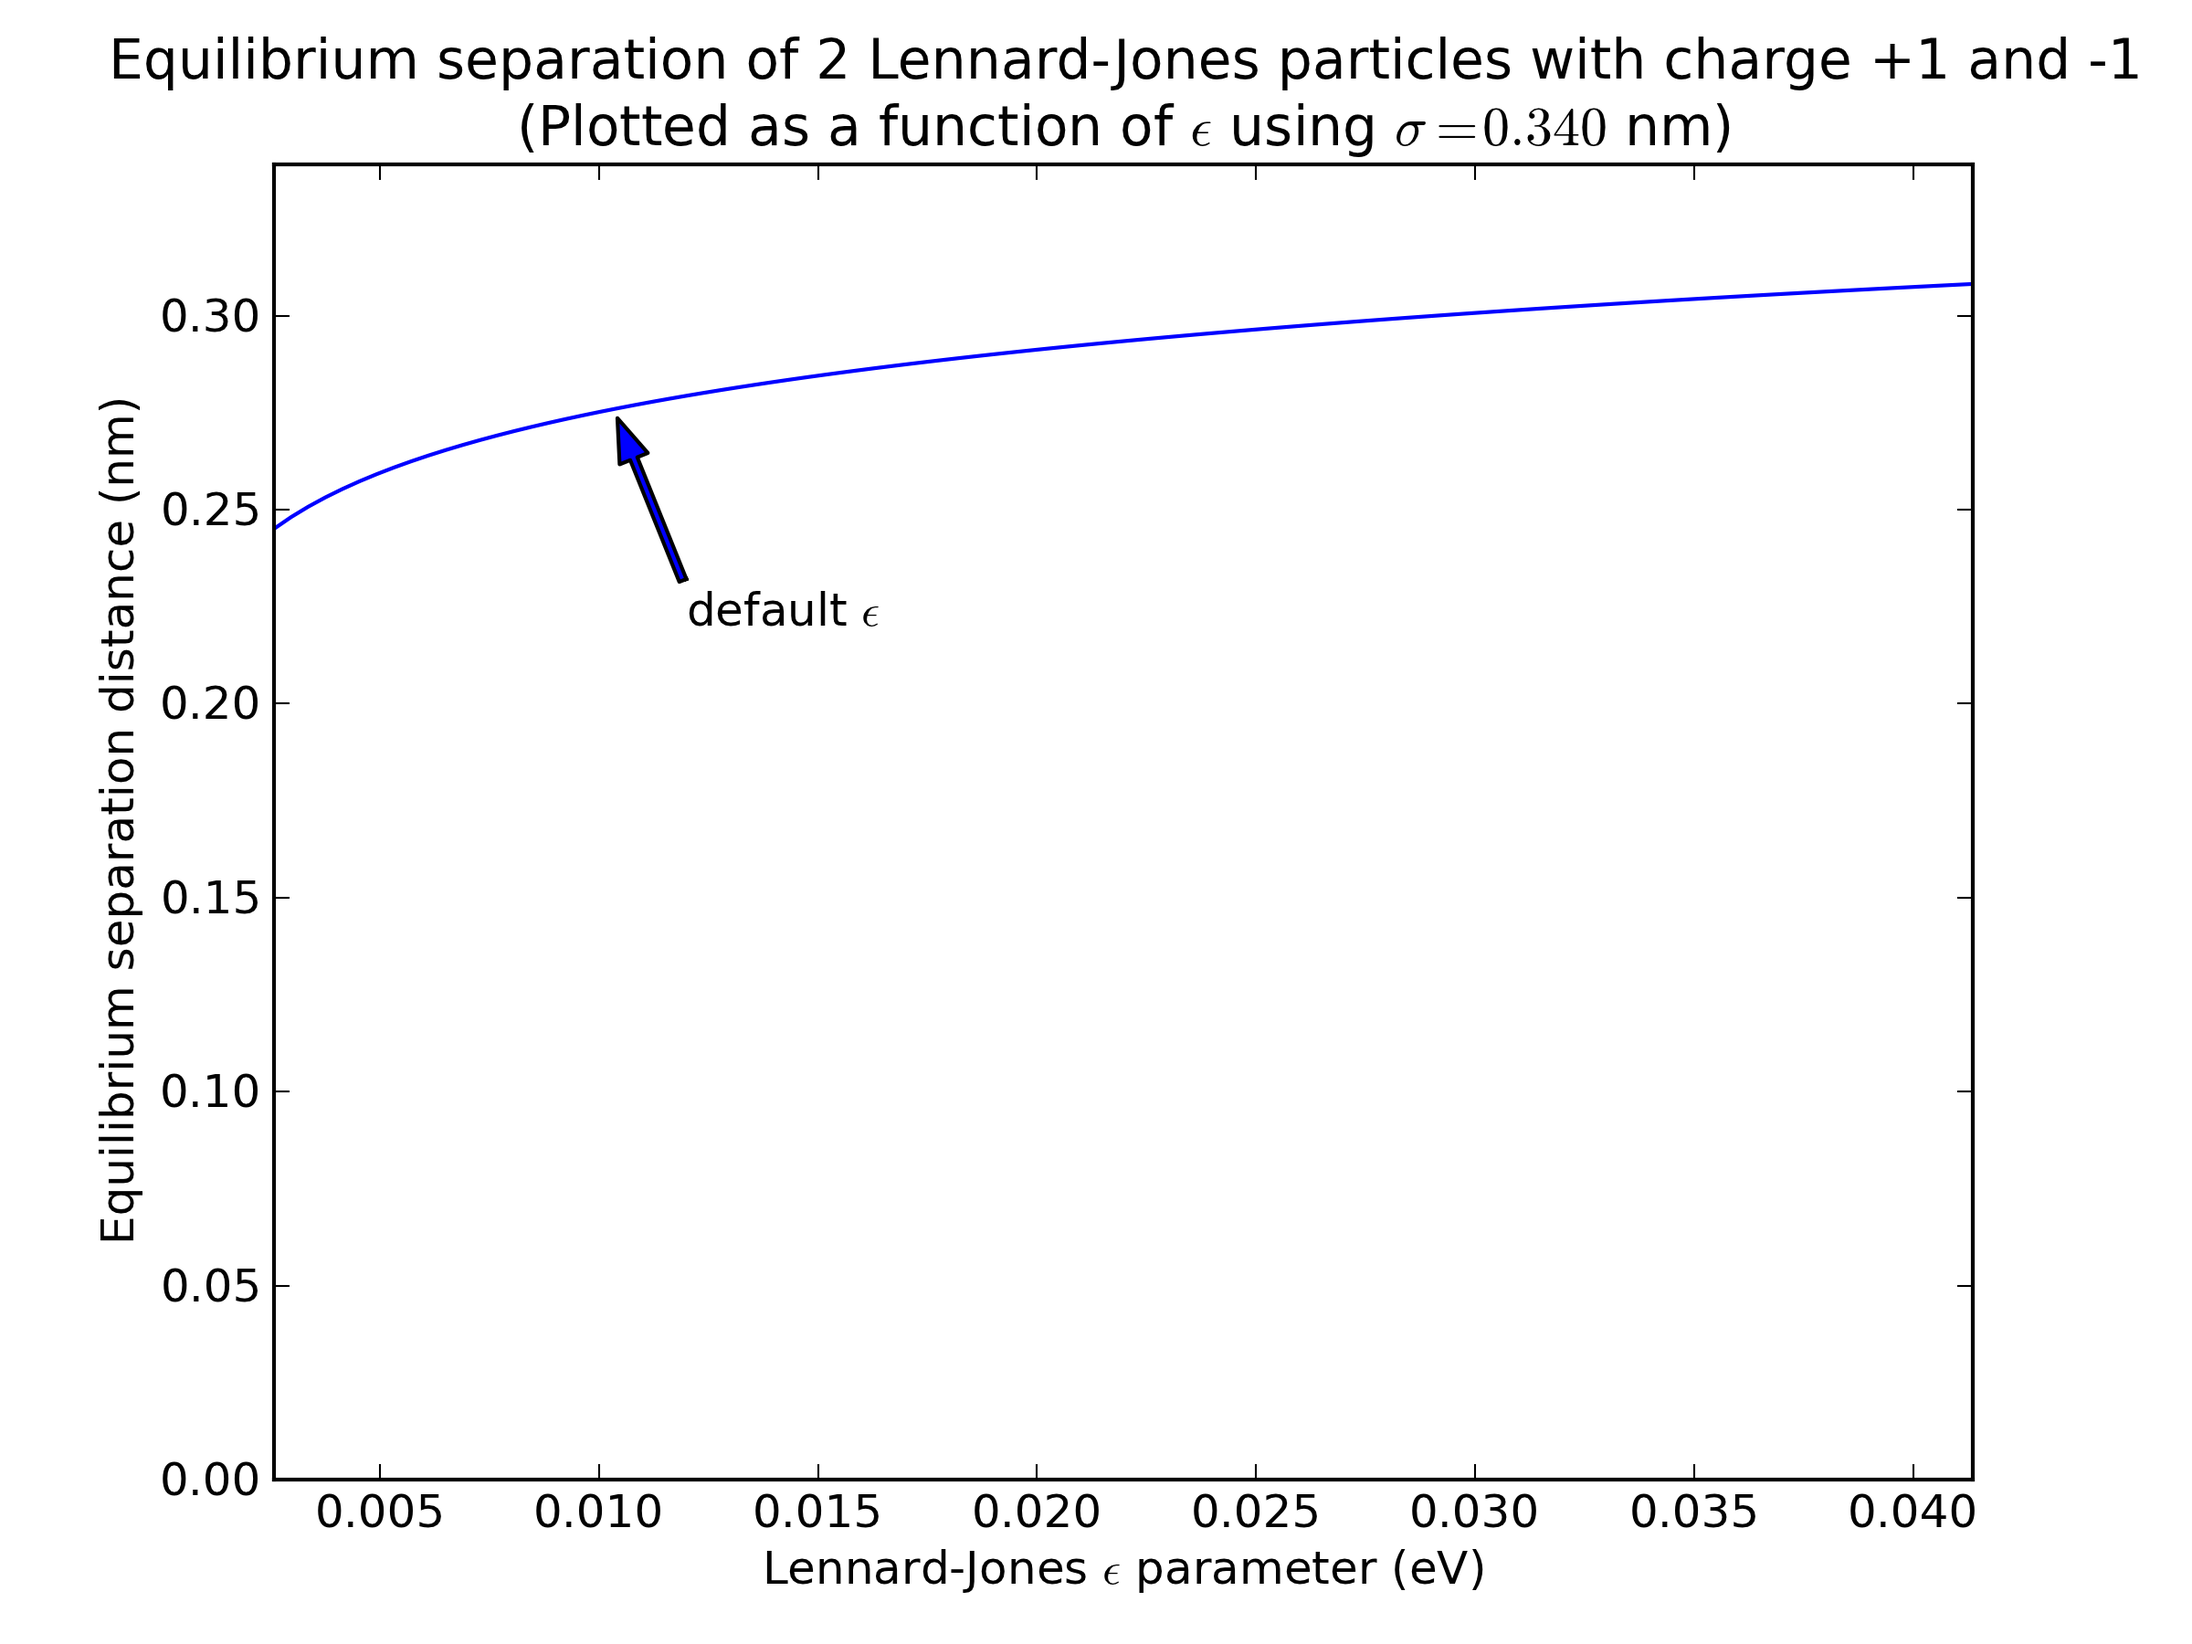
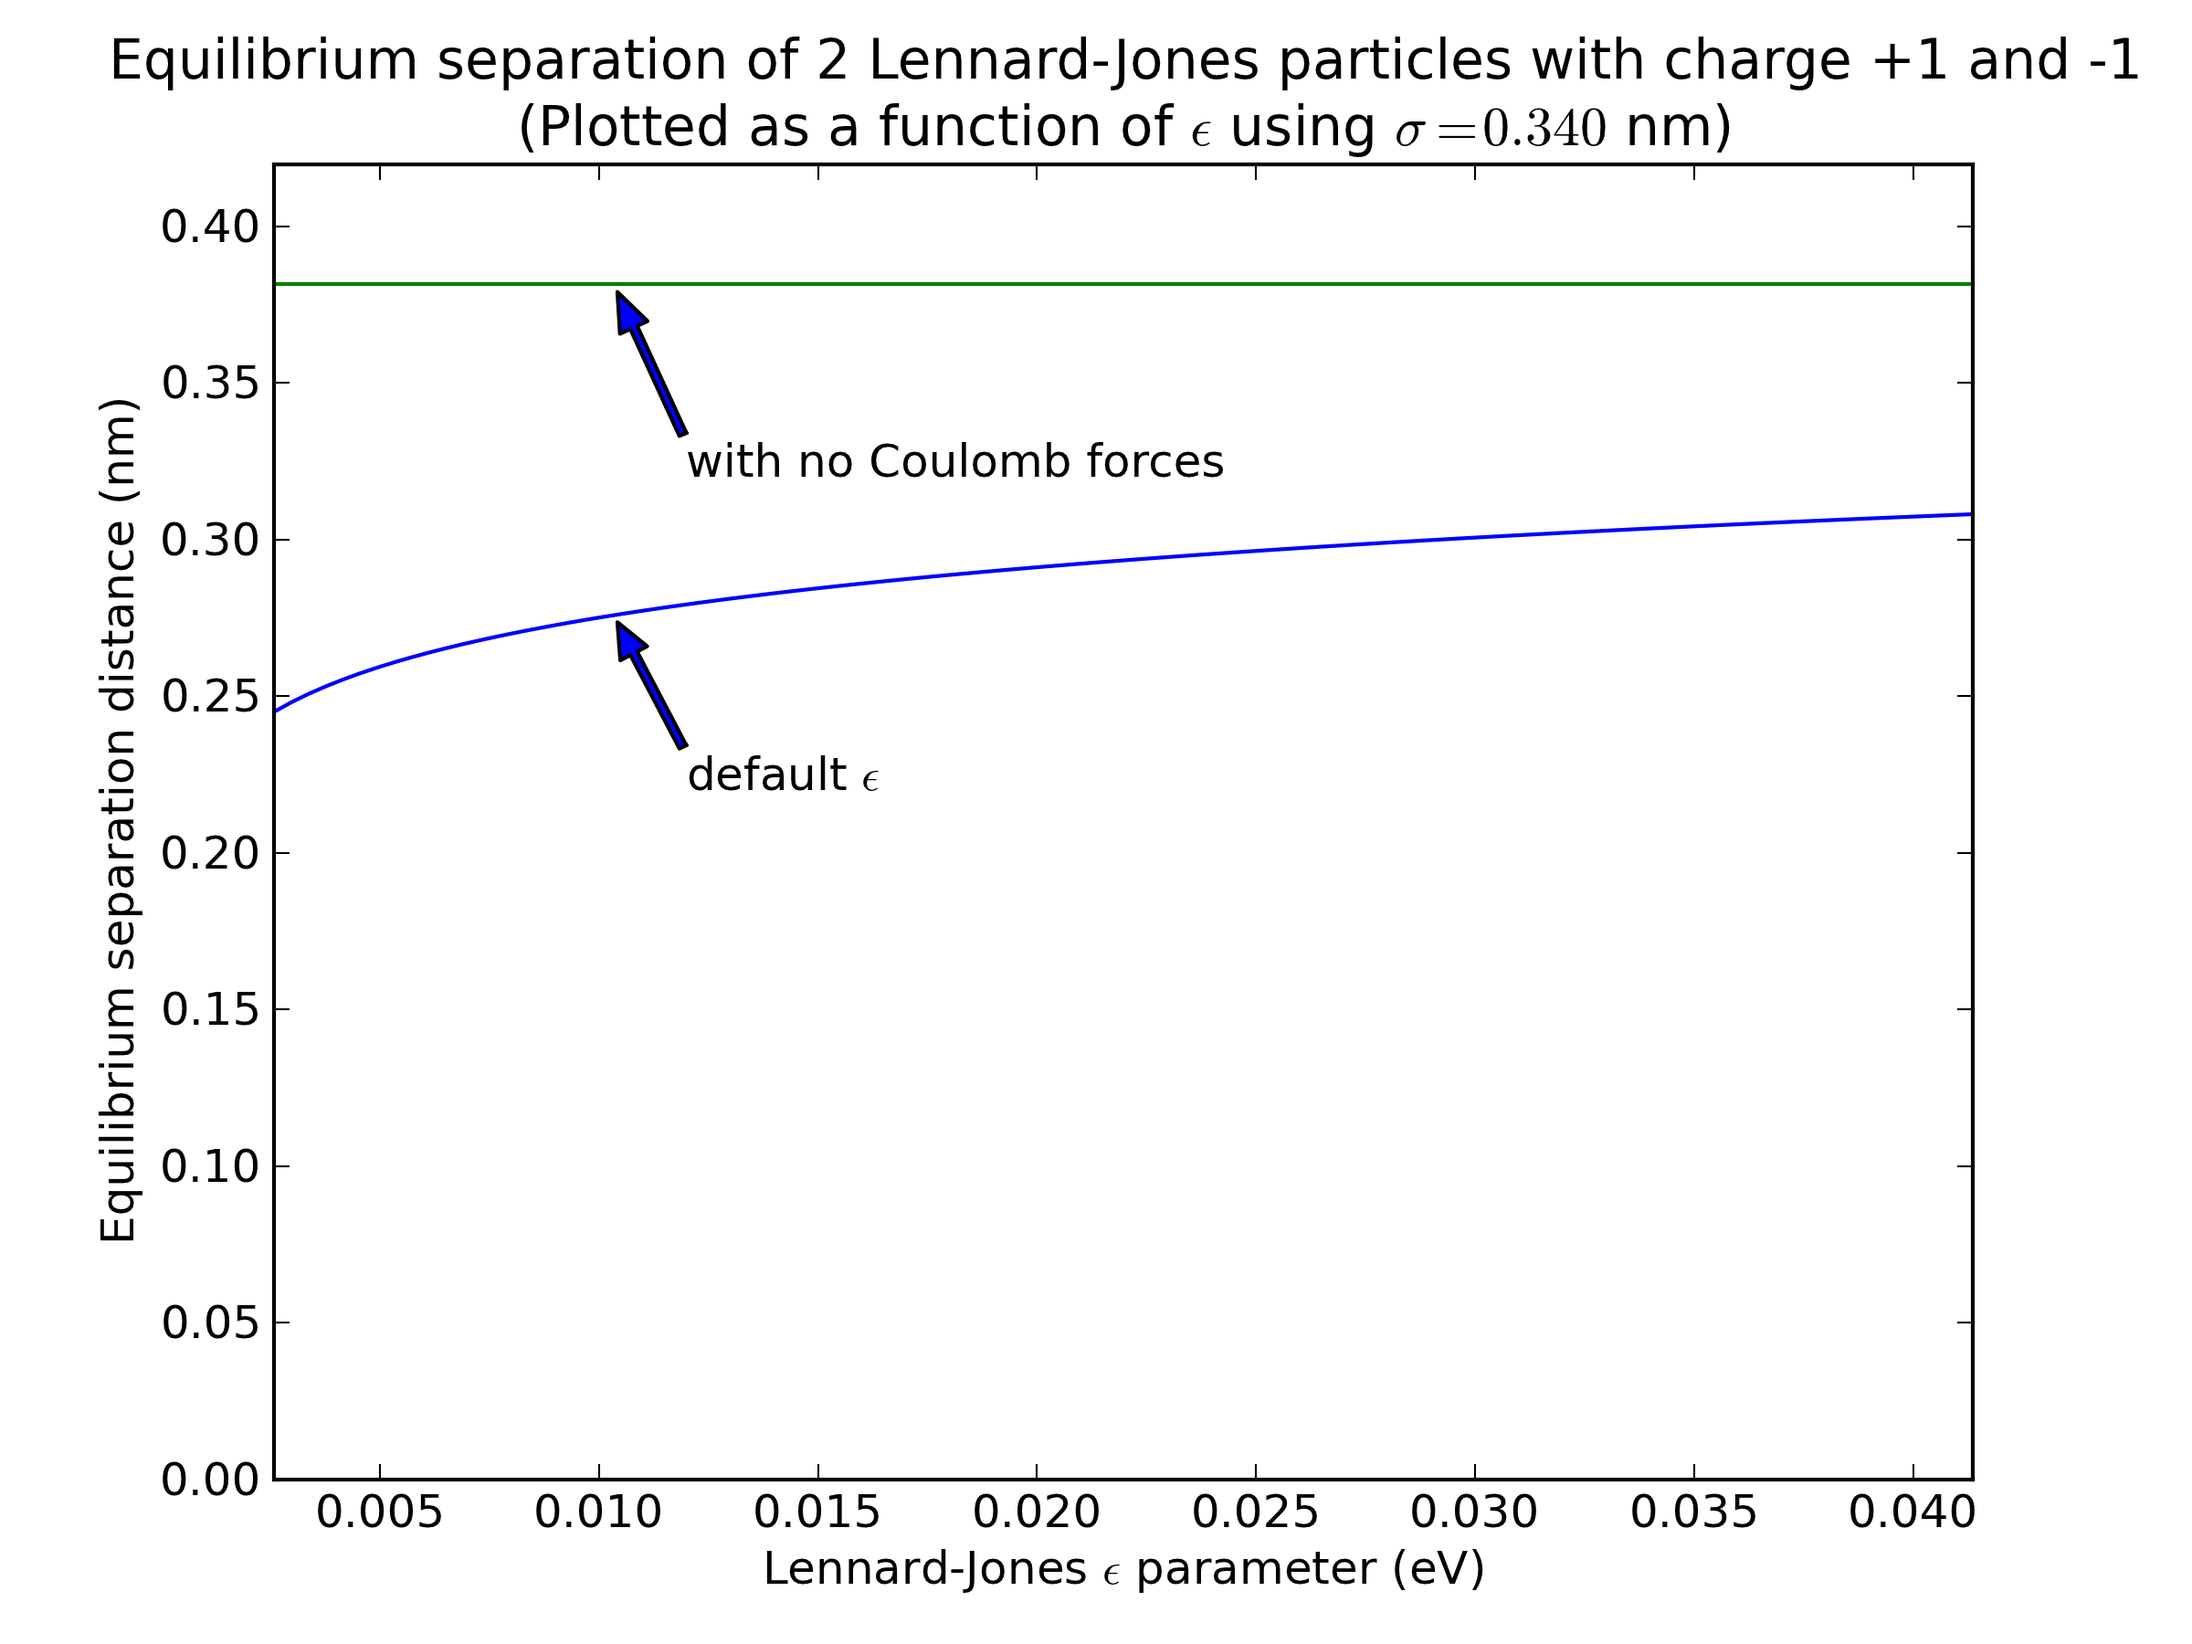
Update lj-coulomb distance with comparison to no-Coulomb case

diff --git a/plot-lj-coulomb-equilibrium-distance.py b/plot-lj-coulomb-equilibrium-distance.py
@@ -59,15 +59,22 @@ def plot_dist():
 
     plt.plot(epsilons, dists)
 
+    dists = map(lambda epsilon: eq_dist(epsilon, sigma, 0, 0), epsilons)
+    plt.plot(epsilons, dists)
+
     plt.xlim(epsilons[0], epsilons[99])
     plt.xlabel(r'Lennard-Jones $\epsilon$ parameter (eV)')
-    plt.ylim(0, dists[99]*1.1)
+    plt.ylim(0, 1.1*max(max(dists), 0.38))
     plt.ylabel("Equilibrium separation distance (nm)")
     plt.title("Equilibrium separation of 2 Lennard-Jones particles with charge +1 and -1\n" + r'(Plotted as a function of $\epsilon$ using $\sigma = 0.340$ nm)');
 
     (x, y) = (epsilon, eq_dist())
     plt.annotate(r'default $\epsilon$', xy=(x,y), xytext=(0.012, 0.22), 
         arrowprops=dict(facecolor='blue', shrink=0.05, frac=0.25, width=2, headwidth = 8))
+
+    (x, y) = (epsilon, eq_dist(epsilon, sigma, 0, 0))
+    plt.annotate(r'with no Coulomb forces', xy=(x,y), xytext=(0.012, 0.32), 
+        arrowprops=dict(facecolor='blue', shrink=0.05, frac=0.25, width=2, headwidth = 8))    
 
 plot_dist()
 plt.savefig('figures/lj-coulomb-equilibrium-distance', dpi=300)
